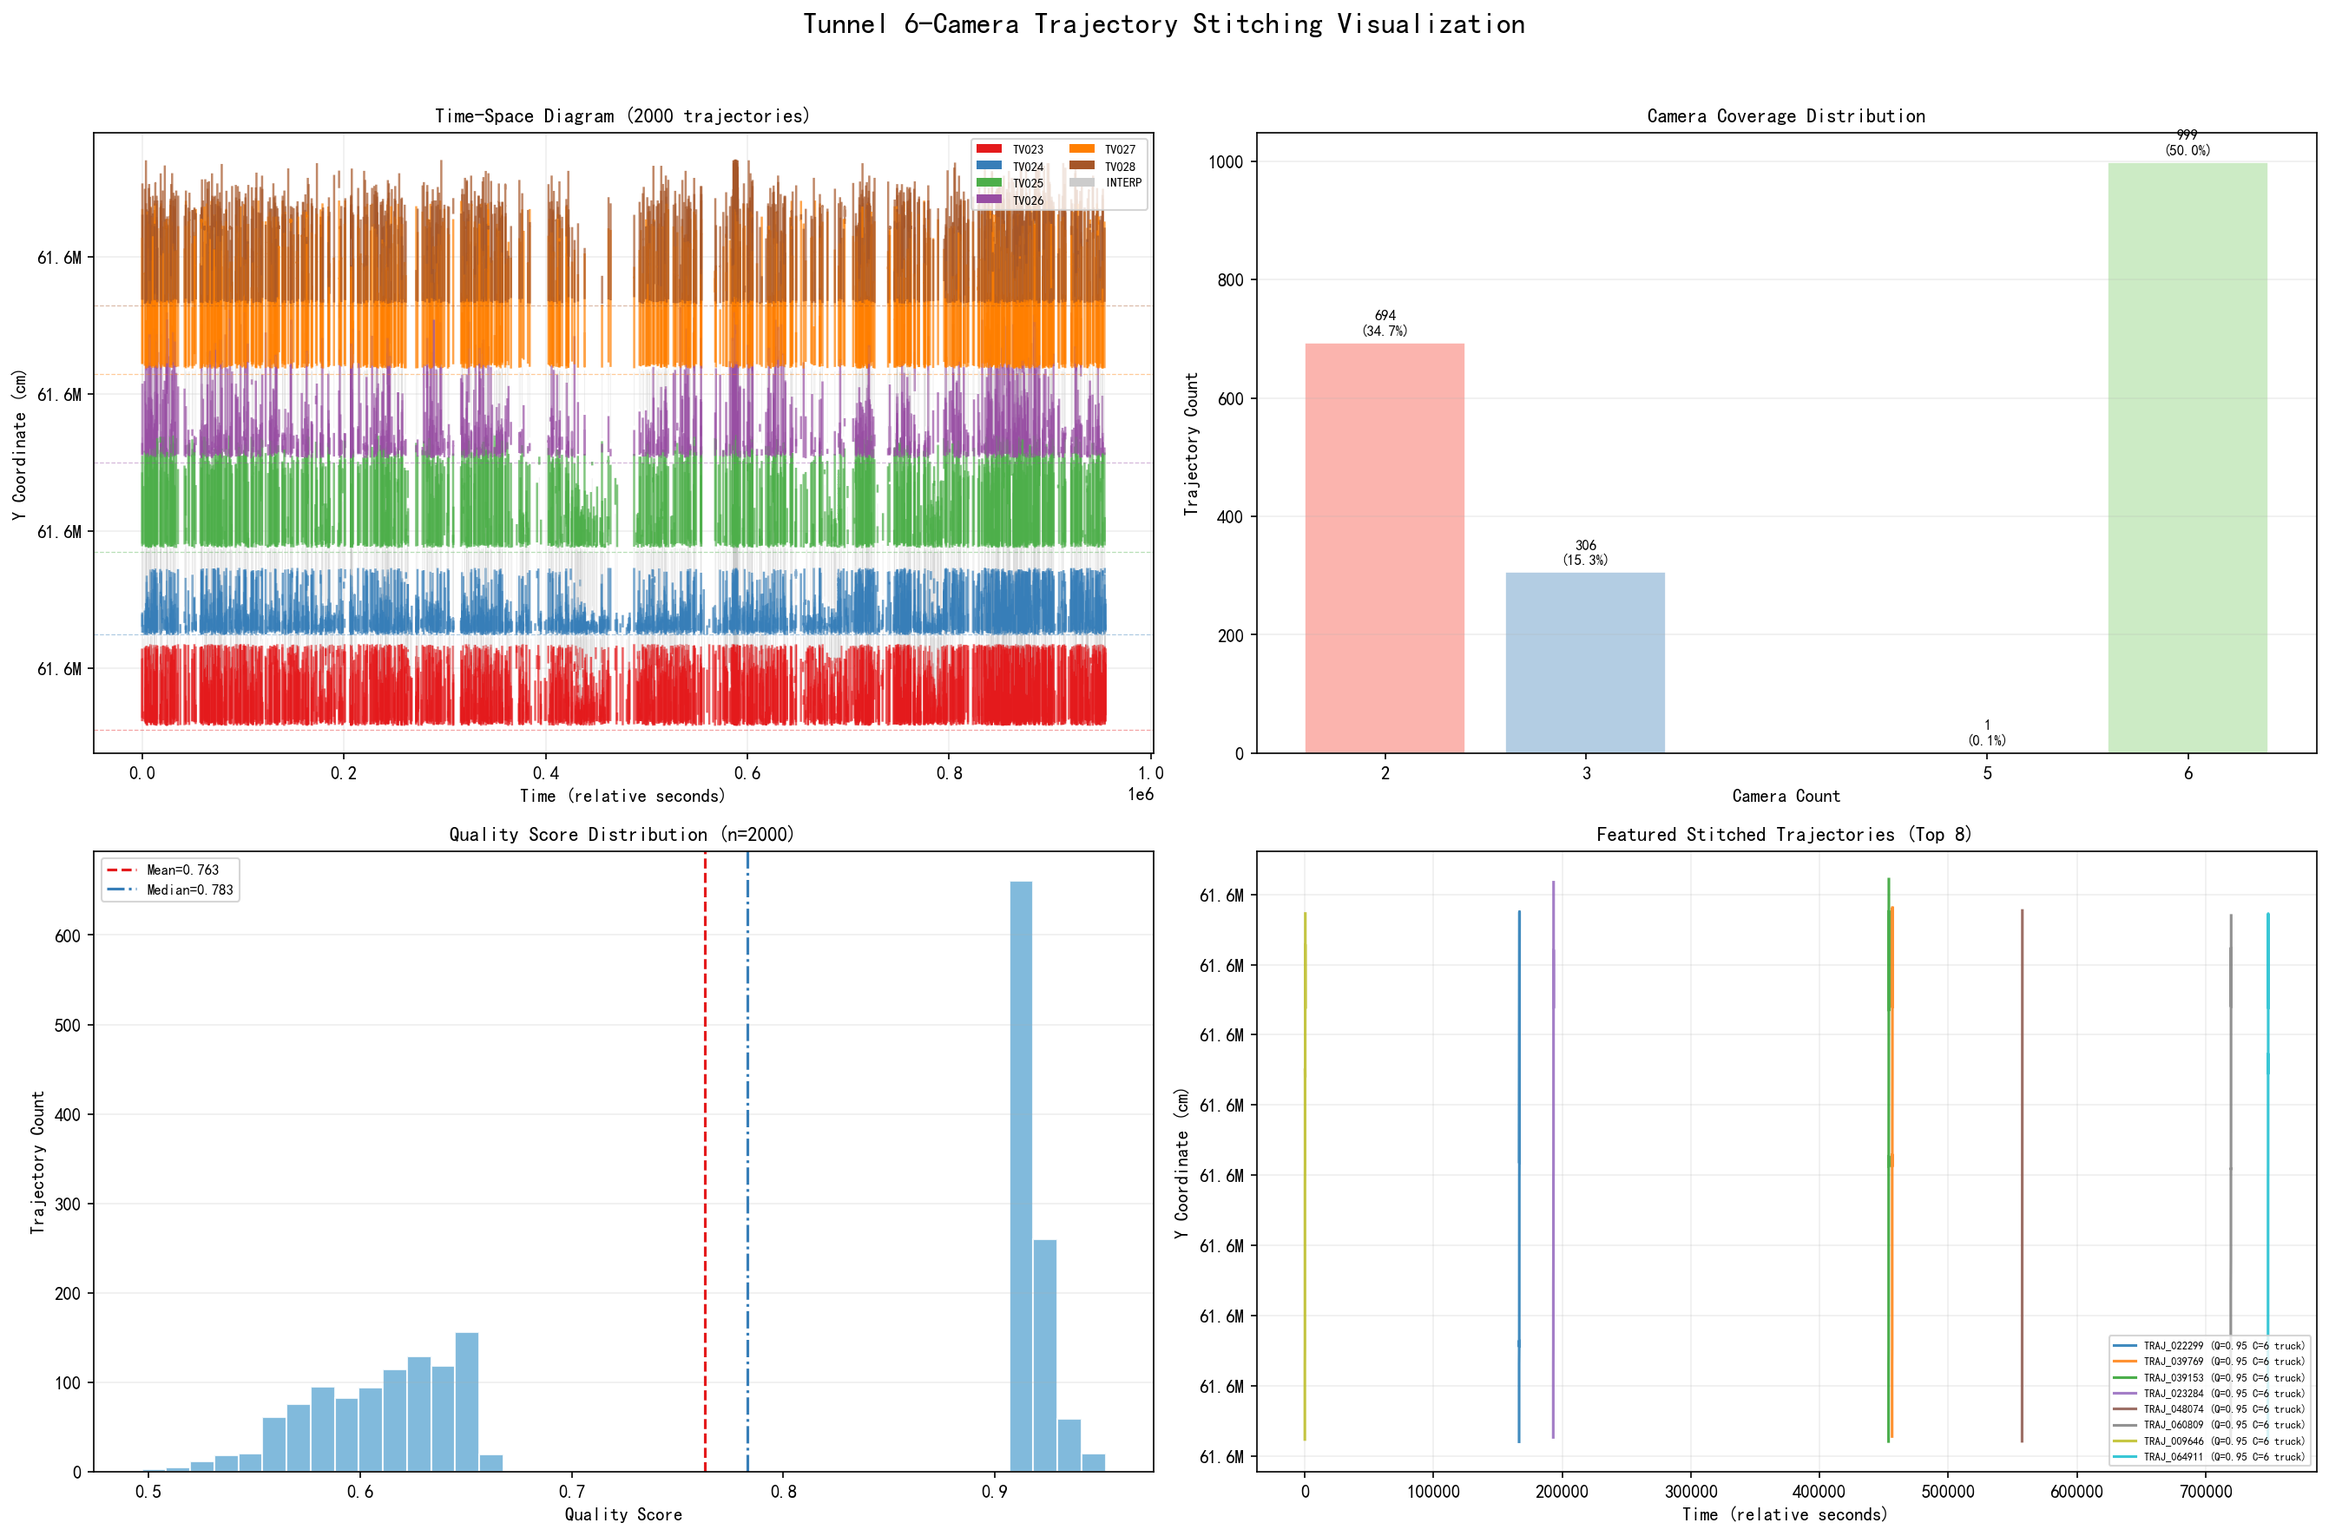
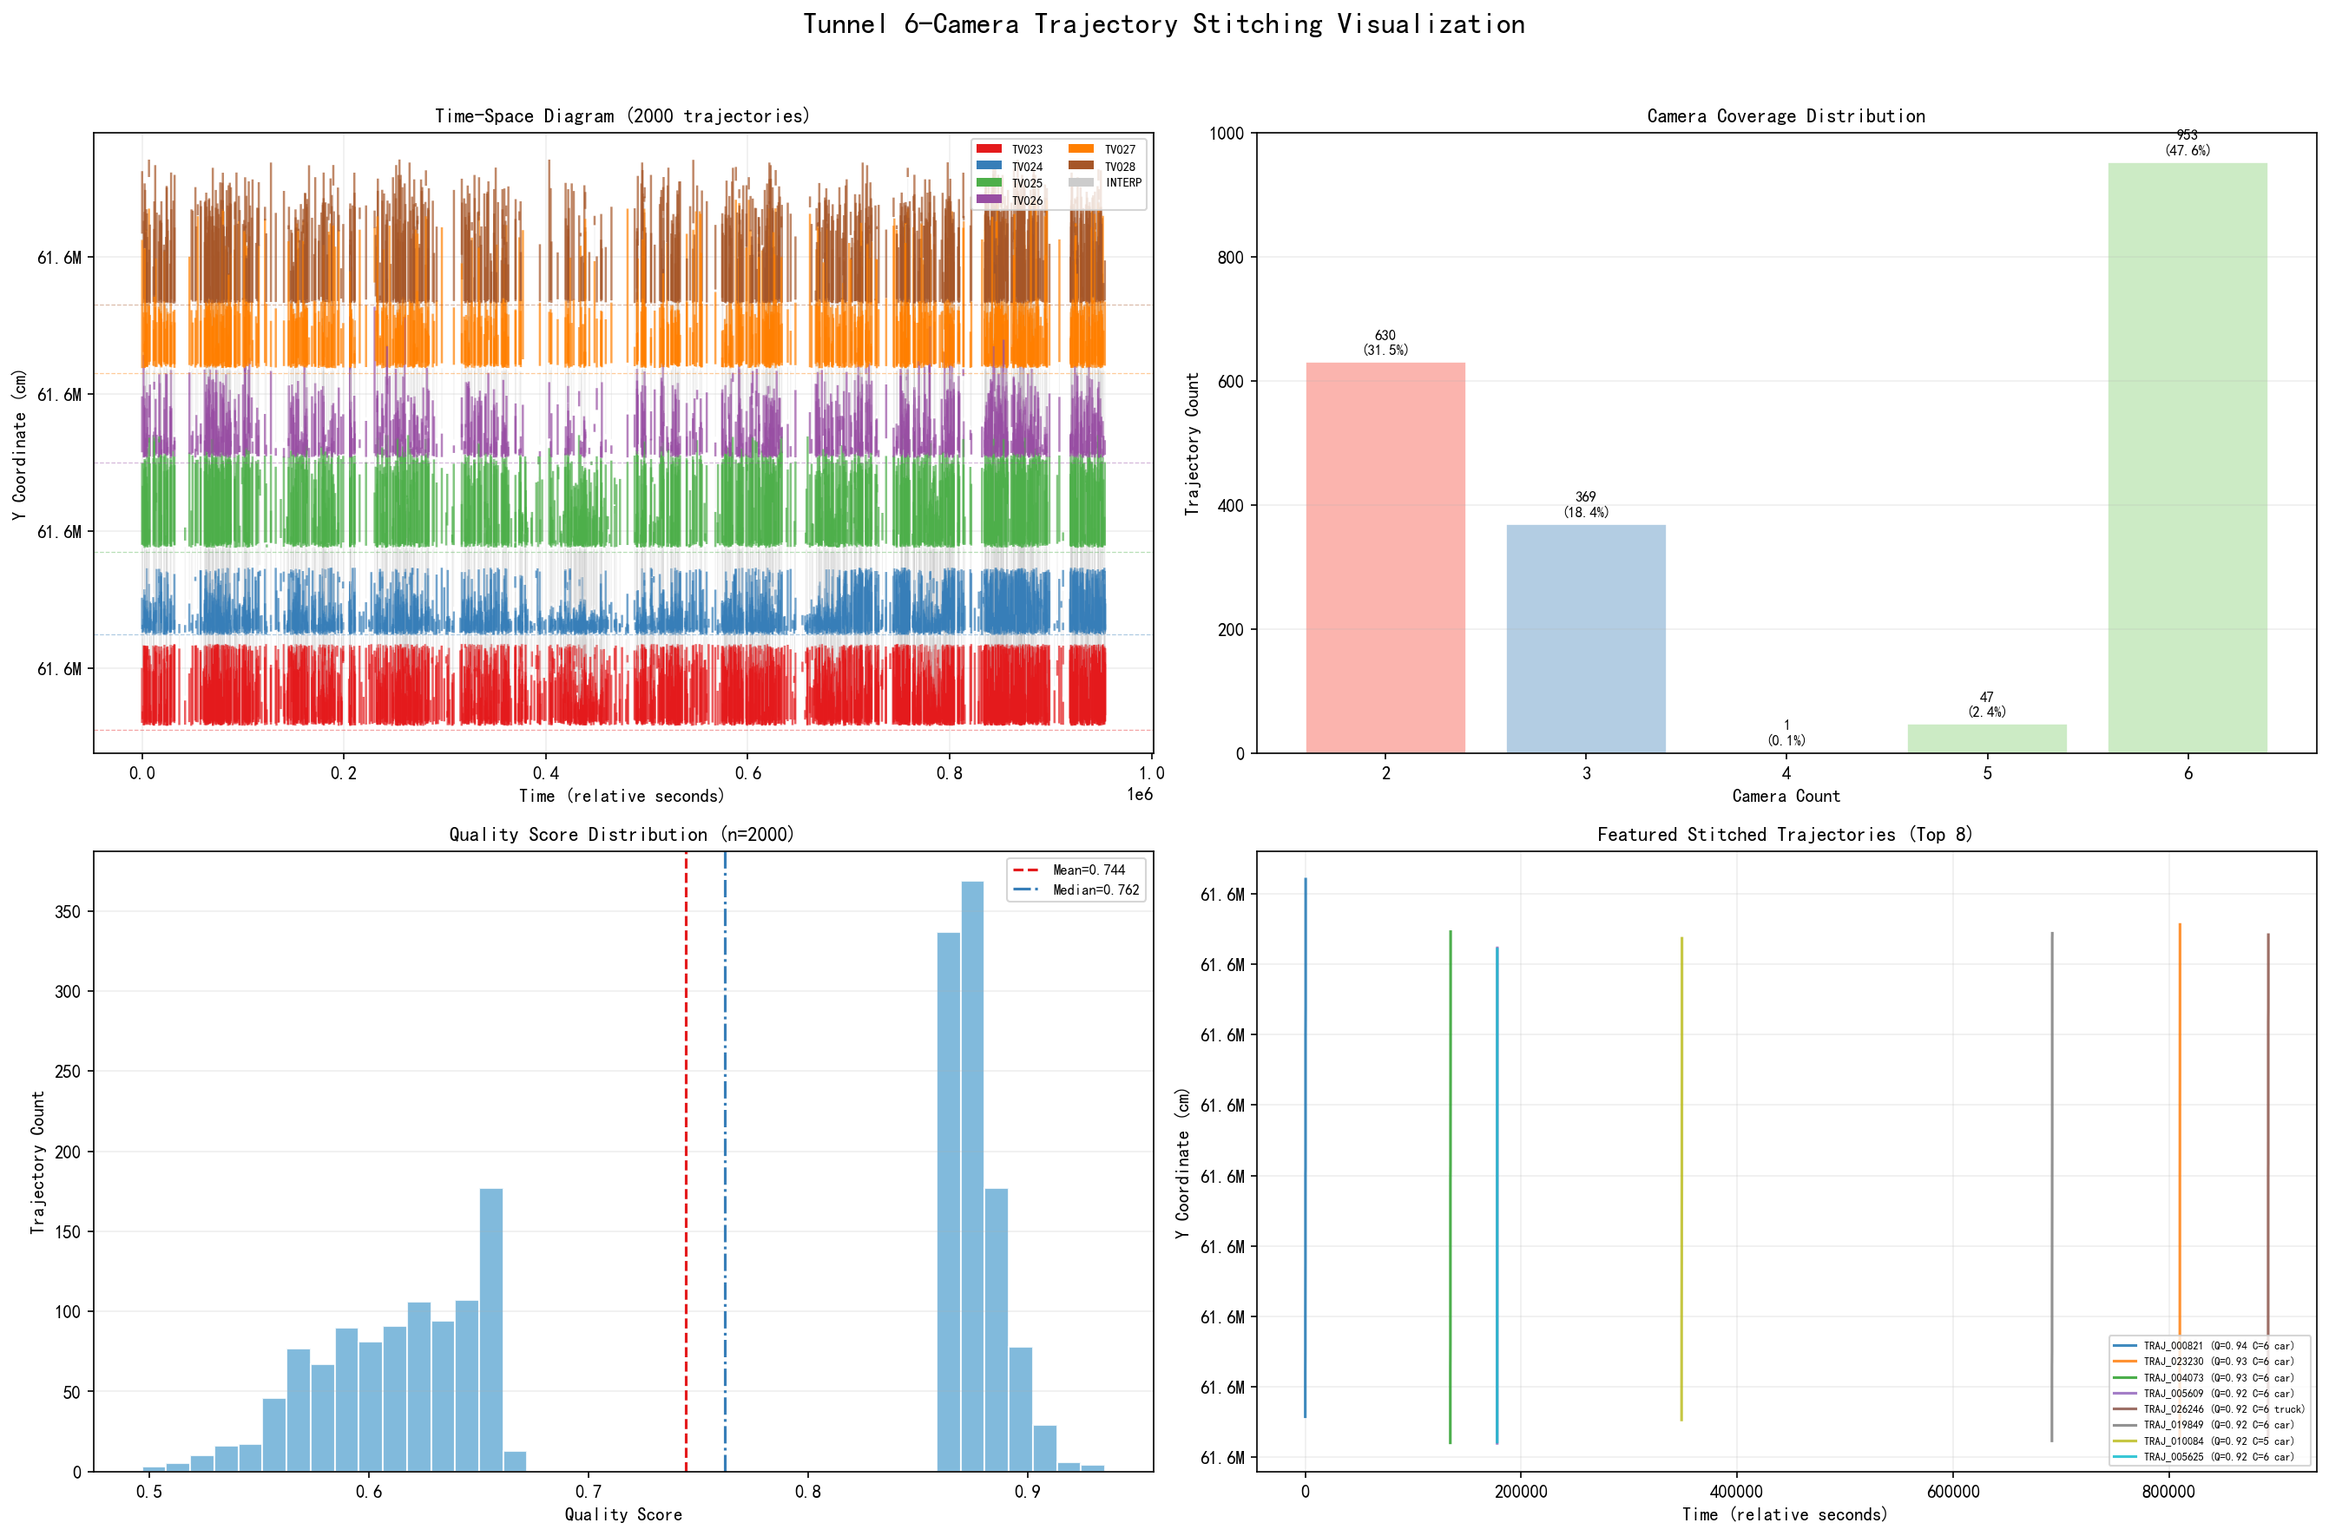
新轨迹拼接方法：按y坐标+时间戳排序+去重+单调性过滤，0%反向。单车测试正常，多车回放有问题

diff --git a/tp_replay/main.py b/tp_replay/main.py
@@ -34,6 +34,178 @@ from .world_utils import _maybe_generate_opendrive_world
 logger = logging.getLogger(__name__)
 
 
+def _run_stitch_simple(world, client, engine, settings) -> None:
+    """拼接轨迹回放——简单直接：逐 tick 插值 drive，与单车测试逻辑一致。"""
+    carla = require_carla()
+    stitch_json = os.getenv("TP_STITCH_JSON_PATH") or config.STITCH_JSON_PATH
+    if not stitch_json:
+        _info("错误：需要设置 TP_STITCH_JSON_PATH")
+        return
+
+    anchor_file = config.DATA_FILE_PATH
+    if not anchor_file or not os.path.exists(anchor_file):
+        _info(f"警告：锚点文件不存在 {anchor_file}")
+    else:
+        engine.process_data(anchor_file)
+        engine.pending_tracks = []
+
+    ca = engine._stitch_cos_a; sa = engine._stitch_sin_a
+    ox = engine._stitch_off_x; oy = engine._stitch_off_y
+    ds = engine._data_start_point
+    sc = float(config.DATA_SCALE); sy = float(config.SCALE_Y)
+
+    # ── 加载 + 过滤 ──
+    import json
+    with open(stitch_json, "r", encoding="utf-8") as f:
+        data = json.load(f)
+    all_trajs = data.get("trajectories", data if isinstance(data, list) else [])
+    min_q = _get_float_from_env("TP_STITCH_MIN_QUALITY", 0.5)
+    min_c = _get_int_from_env("TP_STITCH_MIN_CAMERAS", 2)
+    max_t = _get_int_from_env("TP_TRACK_LIMIT", 0) or None
+
+    def _mono(t):
+        nodes = t.get("nodes", [])
+        return sum(1 for i in range(len(nodes)-1) if nodes[i+1]["y"] < nodes[i]["y"]) == 0
+
+    candidates = [t for t in sorted(all_trajs, key=lambda x: x["quality_score"], reverse=True)
+                  if t["quality_score"] >= min_q and t["camera_count"] >= min_c and _mono(t)]
+    if max_t: candidates = candidates[:max_t]
+    if not candidates: _info("无轨迹"); return
+
+    # 时间窗口过滤
+    max_start_s = _get_float_from_env("TP_STITCH_MAX_START_S", 600.0)
+    candidates = sorted(candidates, key=lambda t: t["nodes"][0]["timestamp"])
+    gts = candidates[0]["nodes"][0]["timestamp"]
+    candidates = [t for t in candidates if (t["nodes"][0]["timestamp"] - gts) / 1000.0 < max_start_s]
+    _info(f"加载 {len(candidates)} 条轨迹")
+
+    # ── 全部转为世界坐标路点 ──
+    all_wpts = {}  # traj_id -> [(loc, spd_kmh, cam)]
+    for st in candidates:
+        wpts = []
+        for n in st["nodes"]:
+            y = n["y"]; x = n.get("x") or ds[0]
+            rx = (x - ds[0]) * sc; ry = (y - ds[1]) * sc * sy
+            loc = carla.Location(rx*ca - ry*sa + engine.entry_loc.x + ox,
+                                  rx*sa + ry*ca + engine.entry_loc.y + oy,
+                                  engine.entry_loc.z)
+            try:
+                wp = engine.map.get_waypoint(loc, project_to_road=True, lane_type=carla.LaneType.Driving)
+                if wp: loc = wp.transform.location
+            except: pass
+            wpts.append((loc, n.get("speed") or 0, n["timestamp"]))
+        all_wpts[id(st)] = wpts
+
+    # ── Spawn 调度 ──
+    bp_lib = world.get_blueprint_library()
+    bp = bp_lib.find("vehicle.tesla.model3")
+    if bp is None: bp = bp_lib.filter("vehicle.*")[0]
+    bp.set_attribute("role_name", "stitch")
+
+    pending = list(candidates)  # 待生成
+    active = {}     # actor -> (traj, wpts, idx, sim_dist, smooth_yaw, segs)
+    max_active = _get_int_from_env("TP_STITCH_TM_MAX_ACTIVE", 25)
+
+    _try_set_spectator_view(world, engine)
+    fixed_dt = float(settings.fixed_delta_seconds)
+    _info(f"回放中...")
+    tick_idx = 0
+
+    try:
+        while pending or active:
+            world.tick()
+            tick_idx += 1
+
+            # Spawn 到期车辆
+            sim_time = tick_idx * fixed_dt * float(config.PLAYBACK_SPEED)
+            spawn_this_tick = []
+            for st in list(pending):
+                first_ts = st["nodes"][0]["timestamp"]
+                if (first_ts - gts) / 1000.0 <= sim_time and len(active) < max_active:
+                    pending.remove(st)
+                    spawn_this_tick.append(st)
+                else:
+                    break  # pending 已按时间排序，后面的更晚
+
+            for st in spawn_this_tick:
+                wpts = all_wpts[id(st)]
+                p0, p1 = wpts[0][0], wpts[1][0]
+                yaw0 = math.degrees(math.atan2(p1.y - p0.y, p1.x - p0.x))
+                # 往前走 1 个路点避开入口边缘
+                try:
+                    wp = engine.map.get_waypoint(p0, project_to_road=True, lane_type=carla.LaneType.Driving)
+                    if wp:
+                        nxt = list(wp.previous(2.0))
+                        if nxt:
+                            p0 = carla.Location(nxt[0].transform.location.x, nxt[0].transform.location.y, nxt[0].transform.location.z)
+                            yaw0 = nxt[0].transform.rotation.yaw
+                except: pass
+                actor = world.try_spawn_actor(bp, carla.Transform(p0, carla.Rotation(yaw=yaw0)))
+                if actor is None:
+                    for off in [5, 10, 20]:
+                        pp = carla.Location(p0.x, p0.y + off, p0.z)
+                        actor = world.try_spawn_actor(bp, carla.Transform(pp, carla.Rotation(yaw=yaw0)))
+                        if actor: break
+                if actor is None: continue
+                # 预计算段
+                segs = []
+                for i in range(len(wpts) - 1):
+                    d = wpts[i][0].distance(wpts[i + 1][0])
+                    spd = max(0.1, (wpts[i][1] + wpts[i + 1][1]) / 2) / 3.6
+                    segs.append((d, spd))
+                active[actor.id] = (st, wpts, 0, 0.0, yaw0, segs)
+
+            # 更新活跃车辆
+            to_remove = []
+            for aid, (st, wpts, idx, sim_dist, smooth_yaw, segs) in list(active.items()):
+                actor = world.get_actor(aid) if hasattr(world, 'get_actor') else None
+                if actor is None or not actor.is_alive:
+                    to_remove.append(aid); continue
+
+                if idx >= len(segs):
+                    to_remove.append(aid); continue
+
+                seg_d, seg_spd = segs[idx]
+                step = seg_spd * fixed_dt * float(config.PLAYBACK_SPEED)
+                sim_dist += step
+
+                while idx < len(segs) and sim_dist > seg_d:
+                    sim_dist -= seg_d; idx += 1
+                    if idx < len(segs): seg_d, seg_spd = segs[idx]
+
+                if idx >= len(segs):
+                    # 终点：保持最后一帧位置
+                    last_pt = wpts[-1][0]
+                    actor.set_transform(carla.Transform(last_pt, carla.Rotation(yaw=smooth_yaw)))
+                    to_remove.append(aid); continue
+
+                alpha = max(0, min(1, sim_dist / max(seg_d, 0.01)))
+                p0, p1 = wpts[idx][0], wpts[min(idx + 1, len(wpts) - 1)][0]
+                ix = p0.x + (p1.x - p0.x) * alpha
+                iy = p0.y + (p1.y - p0.y) * alpha
+                raw_yaw = math.degrees(math.atan2(p1.y - p0.y, p1.x - p0.x))
+                diff = (raw_yaw - smooth_yaw + 180) % 360 - 180
+                smooth_yaw += diff * 0.3
+
+                actor.set_transform(carla.Transform(carla.Location(ix, iy, p0.z), carla.Rotation(yaw=smooth_yaw)))
+                active[aid] = (st, wpts, idx, sim_dist, smooth_yaw, segs)
+
+            for aid in to_remove: del active[aid]
+
+            if tick_idx % 20 == 0:
+                print(f"\rt={tick_idx*fixed_dt:.0f}s active={len(active)} pending={len(pending)}", end="")
+
+        _info("\n回放完成")
+    except KeyboardInterrupt:
+        _info("\n退出")
+    finally:
+        for aid in list(active.keys()):
+            try:
+                a = world.get_actor(aid)
+                if a and a.is_alive: a.destroy()
+            except: pass
+
+
 def _run_stitch_kinematic(world, client, engine, settings) -> None:
     """拼接轨迹 kinematic 回放模式。
 
@@ -597,6 +769,9 @@ def main() -> None:
 
         # —— 拼接轨迹回放模式 ——
         replay_mode = _get_str_from_env("TP_REPLAY_MODE", "kinematic").strip().lower()
+        if replay_mode == "stitch_simple":
+            _run_stitch_simple(world, client, engine, settings)
+            return
         if replay_mode == "stitch_kinematic":
             _run_stitch_kinematic(world, client, engine, settings)
             return

diff --git a/trace_data/track_stitch/stitcher.py b/trace_data/track_stitch/stitcher.py
@@ -180,8 +180,9 @@ class Stitcher:
                 stitched = self._chain_to_stitched(
                     chain, traj_id,
                 )
-                stitched_list.append(stitched)
-                traj_id += 1
+                if self._check_y_monotonic(stitched, max_rev=0):
+                    stitched_list.append(stitched)
+                    traj_id += 1
 
         logger.info(
             "Chained %d trajectories from %d starting fragments",
@@ -193,6 +194,14 @@ class Stitcher:
         )
 
         return stitched_list
+
+    def _check_y_monotonic(self, stitched: StitchedTrajectory, max_rev: int = 5) -> bool:
+        """检查轨迹 y 坐标是否单调递增。"""
+        if len(stitched.nodes) < 2:
+            return True
+        revs = sum(1 for i in range(len(stitched.nodes)-1)
+                    if stitched.nodes[i+1].y < stitched.nodes[i].y)
+        return revs <= max_rev
 
     def _build_chain(
         self,
@@ -239,6 +248,16 @@ class Stitcher:
                 this_cam = traj.camera_id
                 stitched.matched_pairs.append((prev_cam, this_cam, cost))
 
+        # 按 y 坐标排序节点（隧道单向行驶，y 单调递增 = 行驶方向）
+        stitched.nodes.sort(key=lambda n: (n.timestamp, n.y))
+        # 去重：移除同一时间戳的重复节点（保留第一个）
+        seen_ts = set()
+        deduped = []
+        for n in stitched.nodes:
+            if n.timestamp not in seen_ts:
+                seen_ts.add(n.timestamp)
+                deduped.append(n)
+        stitched.nodes = deduped
         return stitched
 
     # ── 盲区插值 ────────────────────────────────────────────

diff --git a/trace_data/track_stitch/check_traj.py b/trace_data/track_stitch/check_traj.py
@@ -1,0 +1,29 @@
+import json
+d=json.load(open("trace_data/track_stitch/output/stitched_trajectories.json","r",encoding="utf-8"))
+trajs=d["trajectories"]
+
+# 检查多条轨迹
+for idx in [0, 1, 2, 5, 10]:
+    if idx >= len(trajs): break
+    t=trajs[idx]
+    nodes=t["nodes"]
+    ys=[n["y"] for n in nodes]
+    diffs=[ys[i+1]-ys[i] for i in range(len(ys)-1)]
+    neg_count=sum(1 for d in diffs if d<0)
+    
+    tss=[n["timestamp"] for n in nodes]
+    ts_diffs=[tss[i+1]-tss[i] for i in range(len(tss)-1)]
+    neg_ts=sum(1 for d in ts_diffs if d<=0)
+    
+    cameras=list(set(n.get("camera","?") for n in nodes))
+    print(f"TRAJ[{idx}] {t['trajectory_id']}: nodes={len(nodes)} y_rev={neg_count} ts_rev={neg_ts} cams={sorted(cameras)} Q={t['quality_score']:.3f}")
+    if neg_count>0:
+        for i,d in enumerate(diffs):
+            if d<0:
+                print(f"  y反向@i={i}: {ys[i]:.0f}->{ys[i+1]:.0f} cam={nodes[i]['camera']}->{nodes[i+1]['camera']}")
+                break
+    if neg_ts>0:
+        for i,d in enumerate(ts_diffs):
+            if d<0:
+                print(f"  ts反向@i={i}: {tss[i]}->{tss[i+1]} diff={d}")
+                break

diff --git a/tp_replay/tests/test_stitch_autopilot.py b/tp_replay/tests/test_stitch_autopilot.py
@@ -7,6 +7,12 @@ from tp_replay import config
 from tp_replay.carla_compat import require_carla
 from tp_replay.engine import ReplayEngine
 
+def _check_monotonic(traj, max_rev=3):
+    """检查轨迹 y 坐标是否单调递增（允许少量反向）。"""
+    nodes=traj.get("nodes",[])
+    revs=sum(1 for i in range(len(nodes)-1) if nodes[i+1]["y"]<nodes[i]["y"])
+    return revs<=max_rev
+
 def main():
     carla=require_carla()
     js=os.getenv("TP_STITCH_JSON_PATH","")
@@ -28,7 +34,8 @@ def main():
     with open(js,"r",encoding="utf-8") as f: data=json.load(f)
     all_trajs=data.get("trajectories",data if isinstance(data,list) else [])
     candidates=[t for t in sorted(all_trajs,key=lambda x:x["quality_score"],reverse=True)
-                 if t["camera_count"]>=5 and t["quality_score"]>0.7]
+                 if t["camera_count"]>=5 and t["quality_score"]>0.7
+                 and _check_monotonic(t)]
     st_data=candidates[min(nth-1,len(candidates)-1)] if candidates else None
     if not st_data: print("无轨迹"); return
     nodes=st_data["nodes"]
